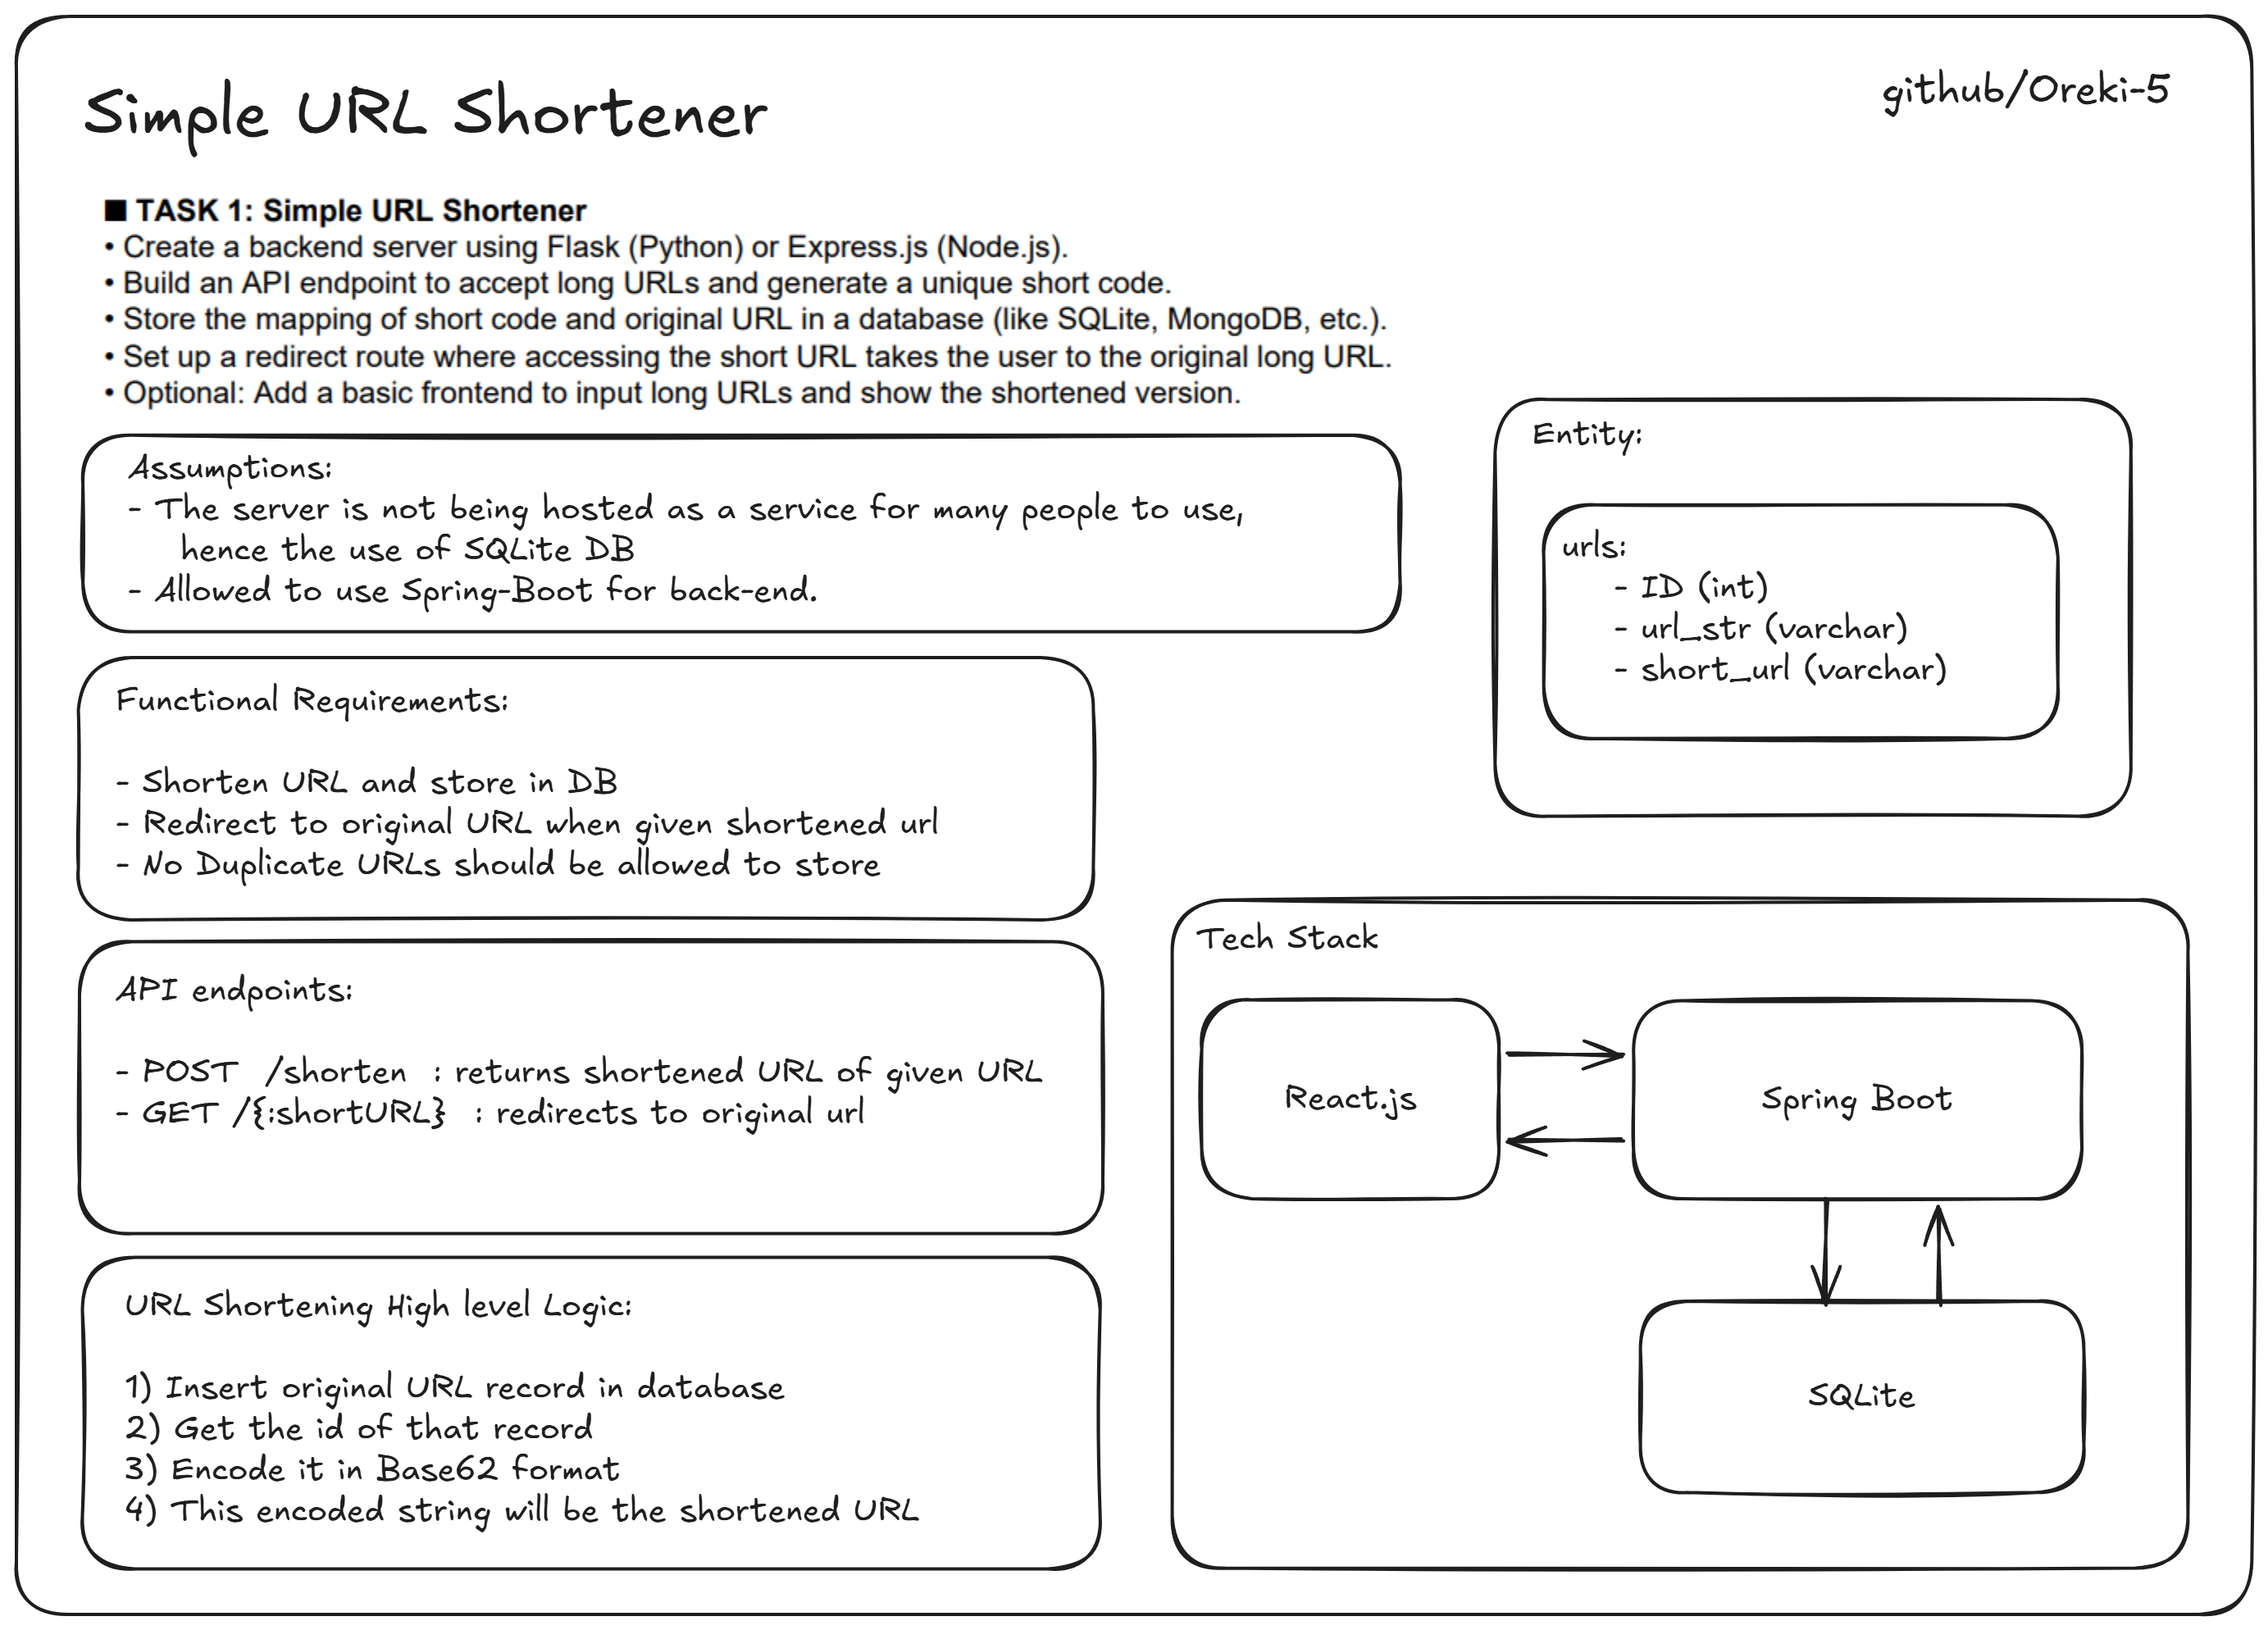
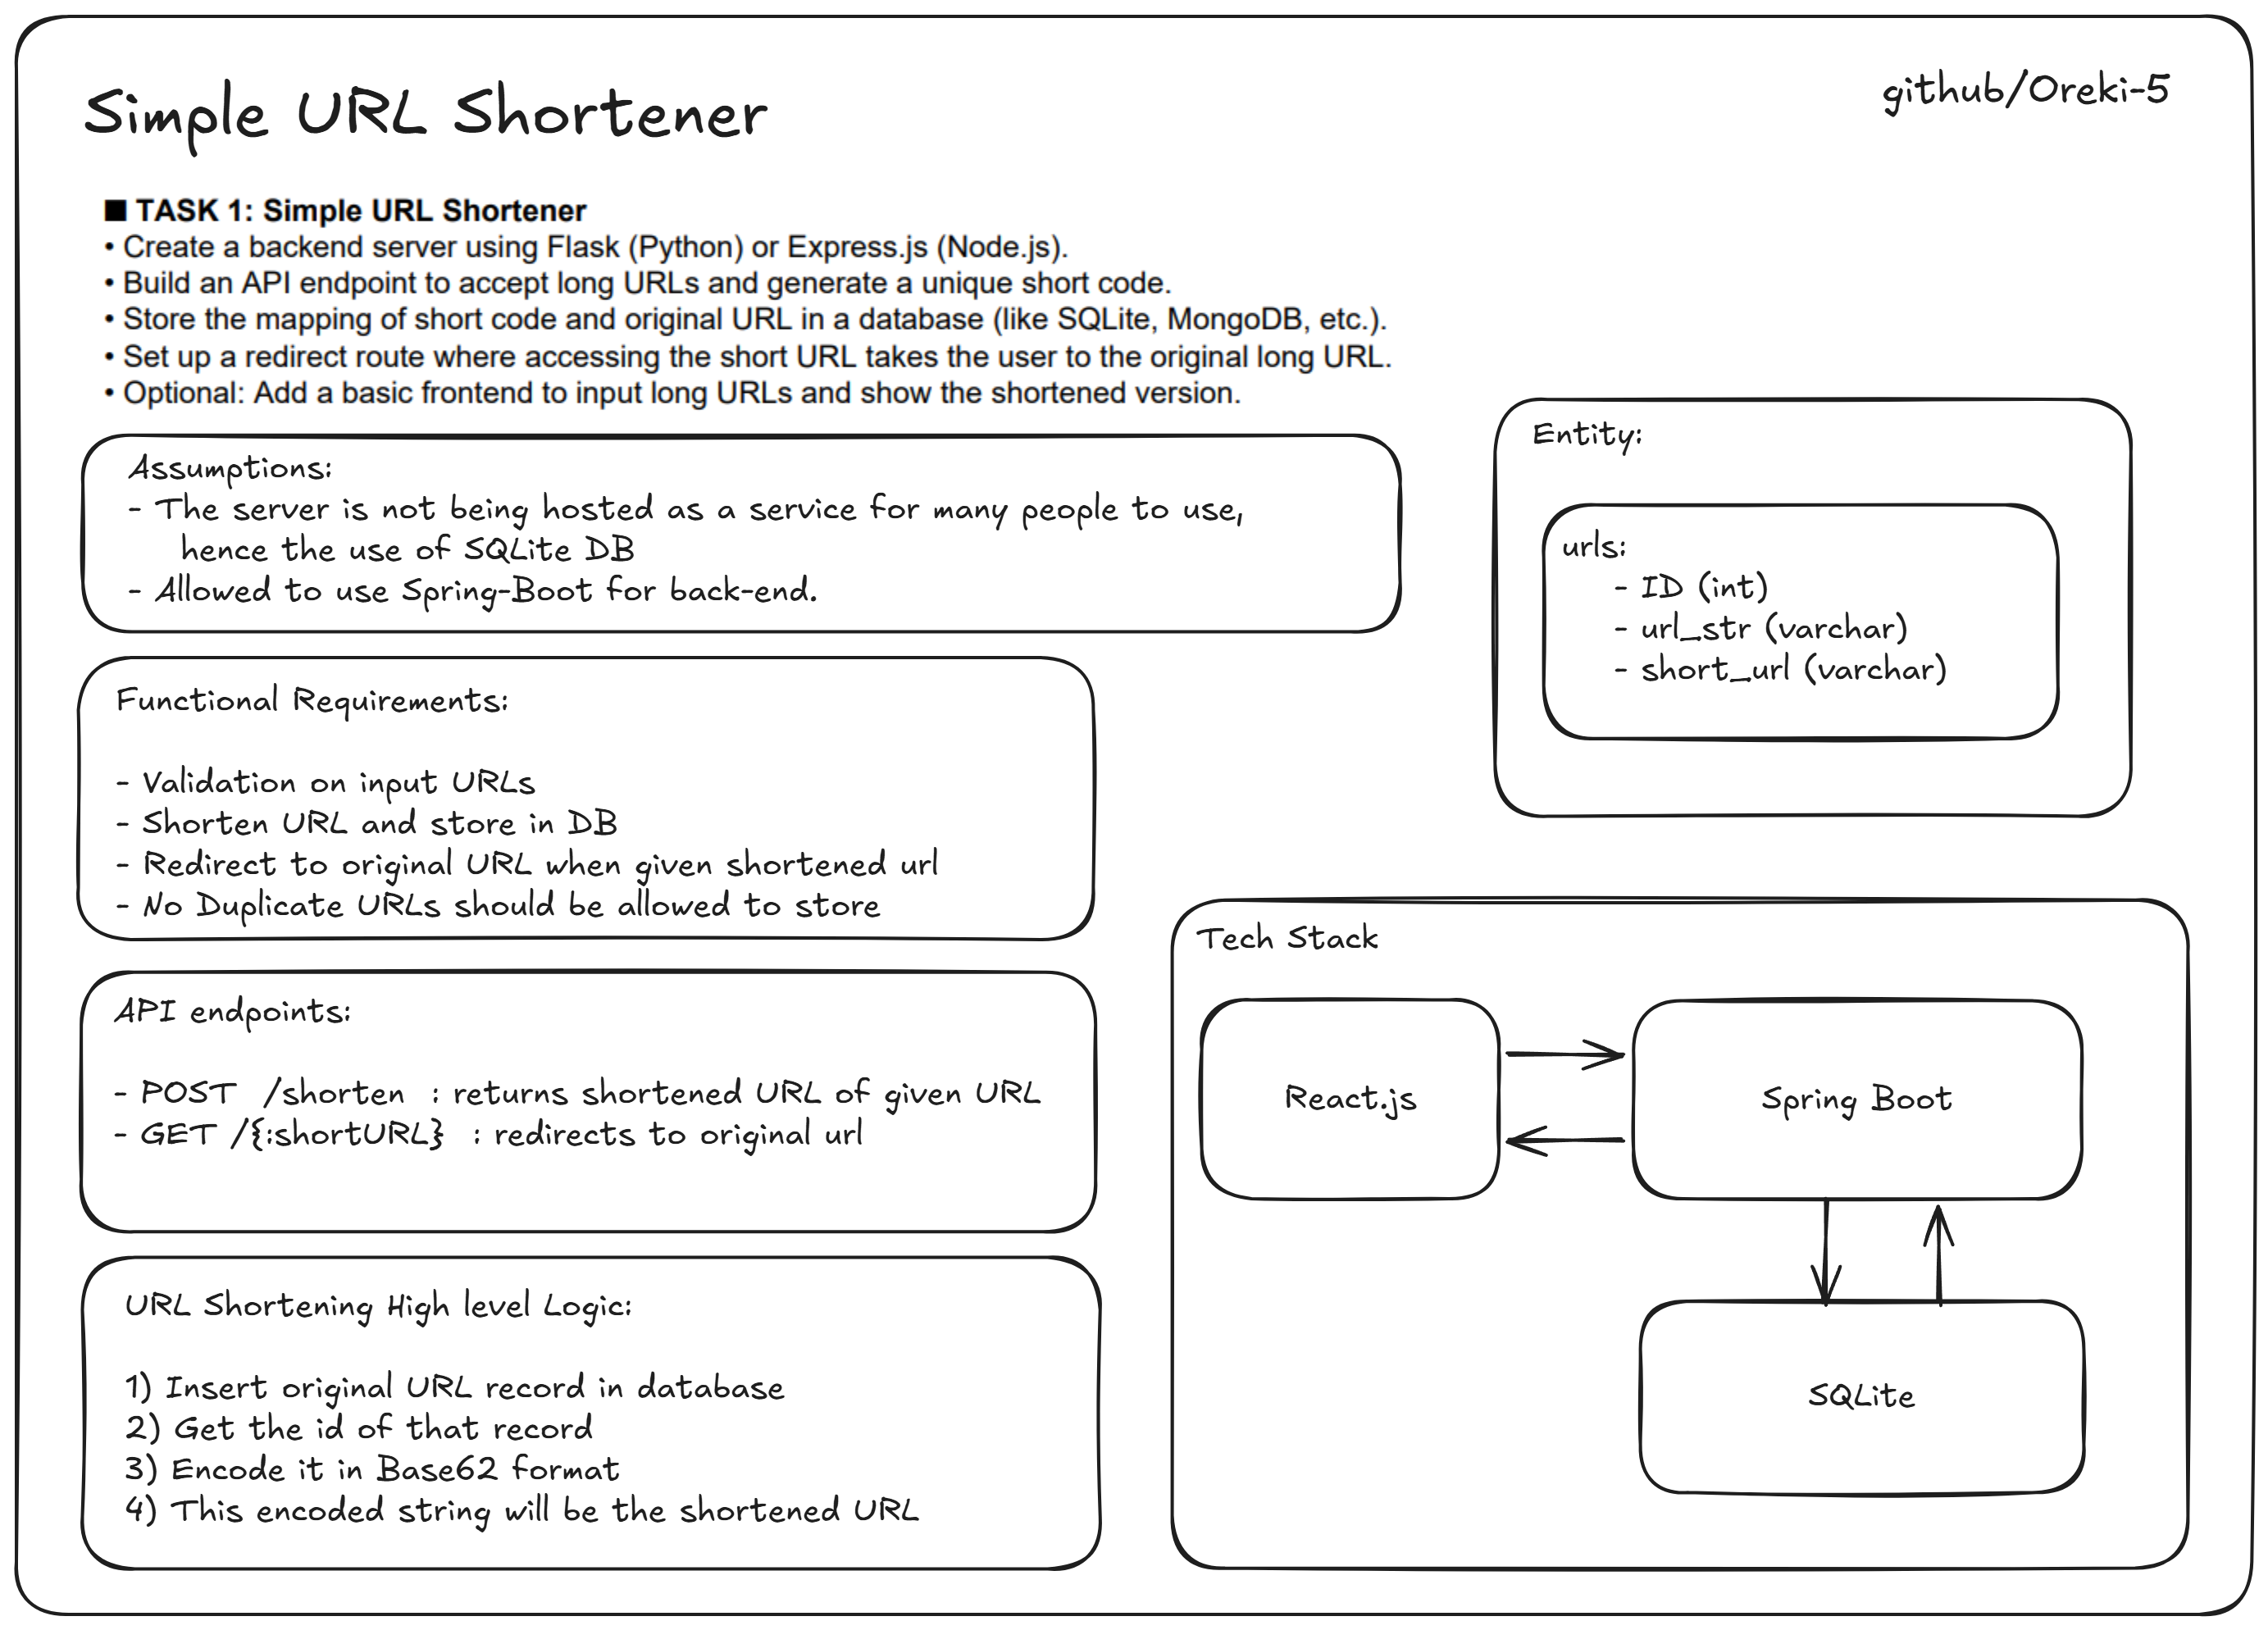
developed core functionality of the backend

Changed region(s): [[0.0311, 0.4678, 0.4975, 0.7485]]

diff --git a/Backend/UrlShortener/src/main/java/com/Oreki5/UrlShortener/Service/ShorteningService.java b/Backend/UrlShortener/src/main/java/com/Oreki5/UrlShortener/Service/ShorteningService.java
@@ -1,0 +1,91 @@
+package com.Oreki5.UrlShortener.Service;
+
+import java.util.regex.Pattern;
+
+import org.springframework.beans.factory.annotation.Autowired;
+import org.springframework.beans.factory.annotation.Value;
+import org.springframework.stereotype.Service;
+
+import com.Oreki5.UrlShortener.Models.ResponseObj;
+import com.Oreki5.UrlShortener.Models.Urls;
+import com.Oreki5.UrlShortener.Repository.UrlsRepo;
+
+@Service
+public class ShorteningService {
+
+    @Value("${HOST_URL}")
+    private String hostUrl;
+
+    @Autowired
+    private UrlsRepo urlsRepo;
+
+    public String getLongUrl(String shorturl) {
+        return urlsRepo.findByShortUrl(shorturl).getLongUrl();
+    }
+
+    public ResponseObj shortenUrl(Urls url) {
+        /*
+         * Logic:
+         * check for valid URL string
+         * check for duplicate
+         * calculate base62 encoded string
+         * save record
+         * return encoded string attached with hostUrl
+         */
+
+        // REGEX TO VALIDATE URL
+        // Source - https://stackoverflow.com/a/163398
+        // Posted by TomC, modified by community. See post 'Timeline' for change history
+        // Retrieved 2026-07-03, License - CC BY-SA 3.0
+        String regex = "^(https?|ftp|file)://[-a-zA-Z0-9+&@#/%?=~_|!:,.;]*[-a-zA-Z0-9+&@#/%=~_|]";
+
+        if (!Pattern.matches(regex, url.getLongUrl())) {
+            return new ResponseObj(null, new IllegalArgumentException("Invalid URL"));
+        }
+
+        try {
+            Urls existingUrl = urlsRepo.findByLongUrl(url.getLongUrl());
+            //
+            if (existingUrl == null) {
+                Urls reqUrlObj = new Urls(url.getLongUrl());
+                urlsRepo.saveAndFlush(reqUrlObj);
+                Urls savedUrl = urlsRepo.findByLongUrl(reqUrlObj.getLongUrl());
+                savedUrl.setShortUrl(encoder(savedUrl.getId()));
+                urlsRepo.saveAndFlush(savedUrl);
+                ResponseObj res = new ResponseObj(hostUrl + savedUrl.getShortUrl(), null);
+                return res;
+            }
+            return new ResponseObj(hostUrl + existingUrl.getShortUrl(), null);
+        } catch (Exception e) {
+            return new ResponseObj(null, e);
+        }
+
+    }
+
+    // base62 encoder function here
+    public String encoder(int id) {
+        /*
+         * Logic:
+            * take a string with 62 chars : encodeMap
+            * while id > 0:
+                * quotient = int/62
+                * remainder = int%62
+                * map remainder with encodeMap
+                * append that char to returnString;
+                * id /= 62
+         */
+        String encodingMap = "poiuytrewqlkjhgfdsamnbvcxz0987654321QWERTYUIOPASDFGHJKLZXCVBNM";
+        StringBuilder sb = new StringBuilder();
+        int q = id;
+        while (id > 0) {
+            q = Math.floorDiv(id, 62);
+            int r = id % 62;
+            // System.out.println("Quotient :" + q);
+            // System.out.println("Remainder :" + r);
+            sb.append(encodingMap.charAt(r));
+            id = Math.floorDiv(id, 62);
+        }
+        return sb.toString();
+    }
+
+}

diff --git a/Backend/UrlShortener/src/main/java/com/Oreki5/UrlShortener/Controller/UrlController.java b/Backend/UrlShortener/src/main/java/com/Oreki5/UrlShortener/Controller/UrlController.java
@@ -1,0 +1,54 @@
+package com.Oreki5.UrlShortener.Controller;
+
+import java.io.IOException;
+
+import javax.management.AttributeNotFoundException;
+
+import org.springframework.beans.factory.annotation.Autowired;
+import org.springframework.http.HttpStatus;
+import org.springframework.web.bind.annotation.GetMapping;
+import org.springframework.web.bind.annotation.PathVariable;
+import org.springframework.web.bind.annotation.PostMapping;
+import org.springframework.web.bind.annotation.RequestBody;
+import org.springframework.web.bind.annotation.RequestMapping;
+import org.springframework.web.bind.annotation.RestController;
+import org.springframework.http.HttpStatus;
+import org.springframework.http.ResponseEntity;
+
+import com.Oreki5.UrlShortener.Models.Urls;
+import com.Oreki5.UrlShortener.Models.ResponseObj;
+import com.Oreki5.UrlShortener.Service.ShorteningService;
+
+import jakarta.servlet.http.HttpServletResponse;
+import jakarta.validation.Valid;
+
+@RestController
+@RequestMapping("/")
+public class UrlController {
+
+    @Autowired
+    private ShorteningService shortenService;
+
+    @GetMapping("/{short_url}")
+    public void redirectToLongUrl(@PathVariable String short_url, HttpServletResponse response) throws IOException {
+        response.sendRedirect(shortenService.getLongUrl(short_url));
+    }
+
+    @PostMapping("/shorten")
+    public ResponseObj shortenUrl(@RequestBody Urls longUrl) {
+        // System.out.println("its working");
+        if(!longUrl.isEmpty()){
+            ResponseObj res = shortenService.shortenUrl(longUrl);
+            return res;
+        }
+        return new ResponseObj(null, new AttributeNotFoundException("Attribute key was Invalid"));
+        
+        // return ;
+        // save the URLs Object in DB
+        // then pass the id of the object to Base62 encoder function
+        // use that return value to set the short url for the object
+
+        // will return ResponseObj
+        
+    }
+}

diff --git a/Backend/UrlShortener/src/main/java/com/Oreki5/UrlShortener/Models/Urls.java b/Backend/UrlShortener/src/main/java/com/Oreki5/UrlShortener/Models/Urls.java
@@ -14,10 +14,49 @@ public class Urls {
     private int id;
 
     @Column
-    private String long_url;
+    private String longUrl;
     
     @Column
-    private String short_url;
+    private String shortUrl;
+
+
+    /*
+        New knowledge:
+        JPA requires a no-arg constructor and creates one automatically if you dont provide one. 
+        In this case I did create a separate arg constructor and hence need to provide default one manually
+    */
+    public Urls(){
+
+    }
+
+    public Urls(String longUrl){
+        this.longUrl = longUrl;
+    }
+
+    public int getId() {
+        return id;
+    }
+
+    public String getLongUrl() {
+        return longUrl;
+    }
+
+    public void setLongUrl(String longUrl) {
+        this.longUrl = longUrl;
+    }
+
+    public String getShortUrl() {
+        return shortUrl;
+    }
+
+    public void setShortUrl(String shortUrl) {
+        this.shortUrl = shortUrl;
+    }
+
+    public boolean isEmpty(){
+        return longUrl == null;
+    }
+    
 
 
 }

diff --git a/Backend/UrlShortener/src/main/java/com/Oreki5/UrlShortener/Models/ResponseObj.java b/Backend/UrlShortener/src/main/java/com/Oreki5/UrlShortener/Models/ResponseObj.java
@@ -1,0 +1,28 @@
+package com.Oreki5.UrlShortener.Models;
+
+public class ResponseObj {
+    private String url;
+    private Exception error;
+
+    public ResponseObj(String url, Exception error) {
+        this.url = url;
+        this.error = error;
+    }
+
+    public void setUrl(String url) {
+        this.url = url;
+    }
+
+    public String getUrl() {
+        return url;
+    }
+
+    public void setError(Exception error) {
+        this.error = error;
+    }
+
+    public Exception getError() {
+        return error;
+    }
+
+}

diff --git a/Backend/UrlShortener/src/main/java/com/Oreki5/UrlShortener/Models/ErrorObj.java b/Backend/UrlShortener/src/main/java/com/Oreki5/UrlShortener/Models/ErrorObj.java
@@ -1,0 +1,18 @@
+package com.Oreki5.UrlShortener.Models;
+
+public class ErrorObj {
+
+    private String error;
+
+    ErrorObj(String error){
+        this.error = error;
+    }
+
+    public String getError(){
+        return error;
+    }
+
+    public void setError(String error){
+        this.error = error;
+    }
+}

diff --git a/Backend/UrlShortener/src/main/java/com/Oreki5/UrlShortener/Repository/UrlsRepo.java b/Backend/UrlShortener/src/main/java/com/Oreki5/UrlShortener/Repository/UrlsRepo.java
@@ -1,0 +1,11 @@
+package com.Oreki5.UrlShortener.Repository;
+
+import org.springframework.data.jpa.repository.JpaRepository;
+
+import com.Oreki5.UrlShortener.Models.Urls;
+
+public interface UrlsRepo extends JpaRepository<Urls, Integer> {
+    //custom interface to fetch url object by its shortUrl
+    Urls findByShortUrl(String shortUrl);
+    Urls findByLongUrl(String longUrl);
+}

diff --git a/DevLog.md b/DevLog.md
@@ -4,3 +4,8 @@
 * Created a design plan for the application.
 * Created the base Spring-Boot project and setup SQLite DB
 * Created URL Entity Model
+
+ Log #2 | 03/07/2026
+* Developed the Core Functionality of the Backend.
+* Added a GET endpoint which redirects to the original log url
+* Added a POST /shorten endpoint which takes a valid url, stores it in database and returns shortened url as a response. If the url already exists in the database, it directly returns its shortened url.

diff --git a/README.md b/README.md
@@ -1,4 +1,3 @@
 # HorizonTechX_Simple_URL_Shortener
 
 
-